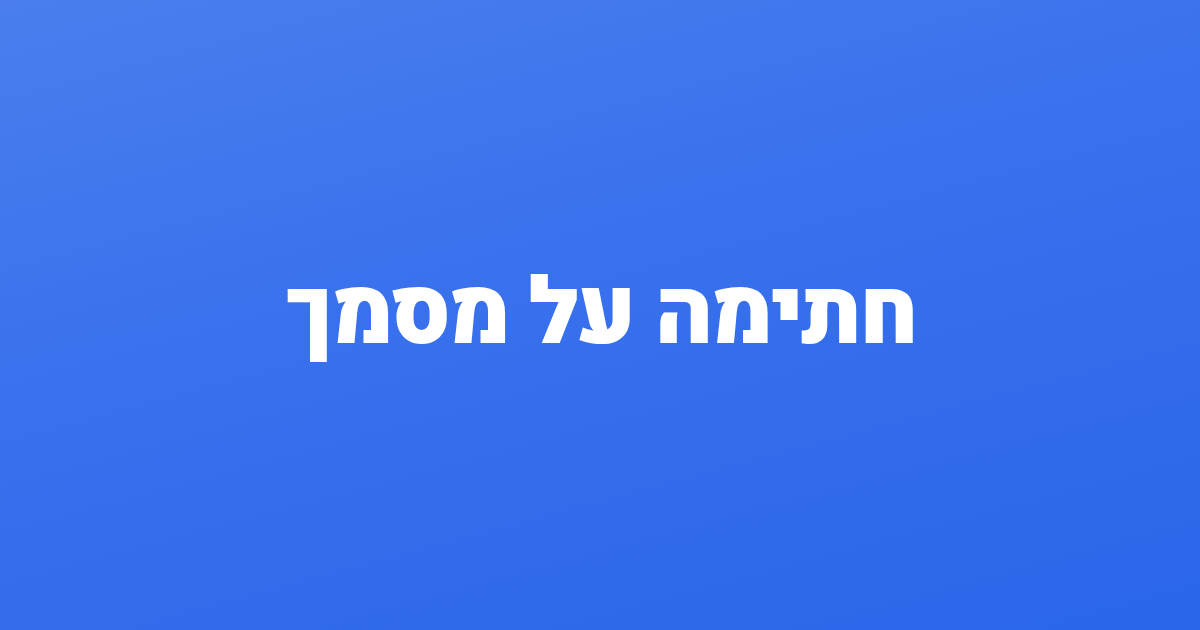
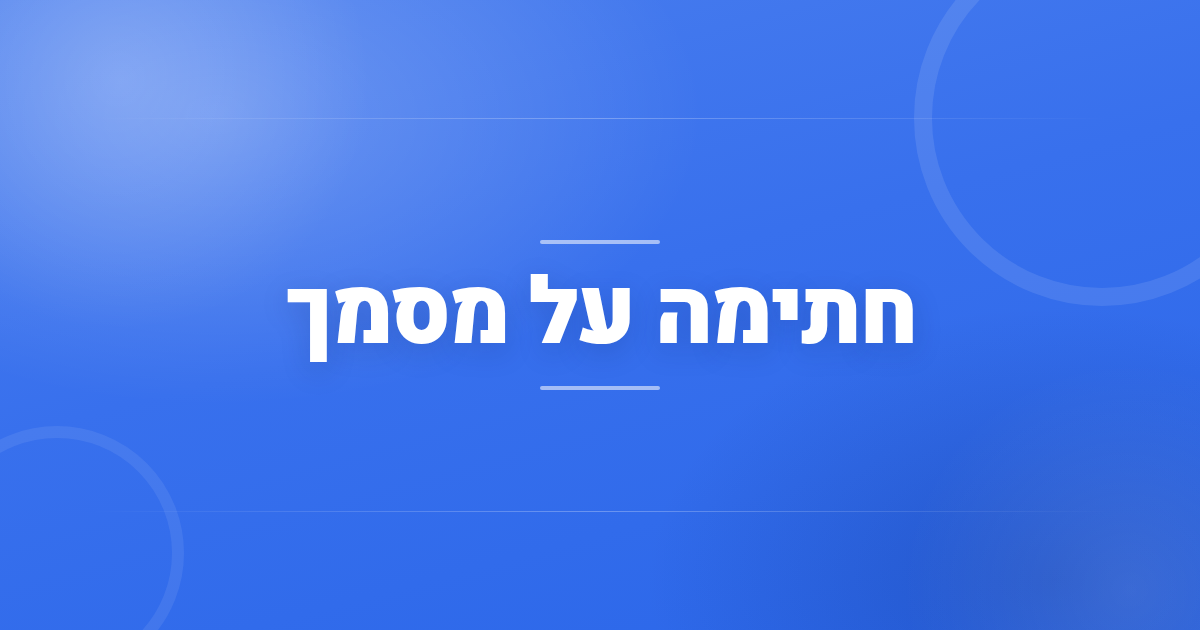
Add a light design on the blue WhatsApp signature card.
Keep the sidebar blue and white title, and add a soft glow, rings, and thin lines so the preview is not a flat rectangle.

diff --git a/_test-gi-sign.js b/_test-gi-sign.js
@@ -140,7 +140,7 @@ assert(html.includes("gi-sign.css?v=20261002-sign-v6"), "עיצוב הכפתור
 assert(signJs.includes("function signShareText") && signJs.includes("מאת : ") && !signJs.includes("📄") && !signJs.includes("🖊") && !signJs.includes("מא. ") && signJs.includes("function agentFirstName") && signJs.includes("clipboard.writeText(signShareText(href))") && !signJs.includes("github.io"), "העתקת הלינק לוואטסאפ היא חתימה על מסמך ומאת : עם שם פרטי, בלי אייקון ובלי שם המערכת");
 const shareFn = signJs.slice(signJs.indexOf("function signShareText"), signJs.indexOf("function currentAgent"));
 assert(shareFn.includes('"חתימה על מסמך"') && shareFn.includes("מאת : ") && !shareFn.includes("GEMEL") && !shareFn.includes("📄"), "טקסט השיתוף בלי שם המערכת ובלי אייקון");
-assert(page.includes('property="og:title"') && page.includes("חתימה על מסמך") && page.includes("gi-sign-icon.png") && page.includes("summary_large_image") && fs.existsSync(path.join(ROOT, "gi-sign-icon.png")) && !page.includes("GEMEL"), "תצוגת הלינק היא כרטיס תכלת עם כיתוב לבן חתימה על מסמך");
+assert(page.includes('property="og:title"') && page.includes("חתימה על מסמך") && page.includes("gi-sign-icon.png?v=sign-og-v2") && page.includes("summary_large_image") && fs.existsSync(path.join(ROOT, "gi-sign-icon.png")) && !page.includes("GEMEL"), "תצוגת הלינק היא כרטיס תכלת עם כיתוב לבן חתימה על מסמך");
 assert(fs.readFileSync(path.join(ROOT, "gi-sign.css"), "utf8").includes("overflow-x:hidden") && fs.readFileSync(path.join(ROOT, "gi-sign.css"), "utf8").includes("text-overflow:ellipsis") && app.includes('cfFile__documentRowActions">${downloadBtn}'), "שורות המסמכים בתיק בשורה אחת בלי גלילה ימין-שמאל");
 assert(fs.readFileSync(path.join(ROOT, "gi-sign.css"), "utf8").includes("max-width:min(340px, calc(100vw - 24px)) !important") && signJs.includes("giSignSend__x"), "חלון הלינקים קטן והסגירה בצד");
 assert(app.includes('gi-cancel-forms.js?v=20260914-mc-followup-qfix-v2&giSign=2'), "חלון הטופס נטען מחדש");

diff --git a/s.html b/s.html
@@ -7,12 +7,12 @@
 <meta property="og:title" content="חתימה על מסמך"/>
 <meta property="og:description" content="חתימה על מסמך"/>
 <meta property="og:type" content="website"/>
-<meta property="og:image" content="./gi-sign-icon.png"/>
+<meta property="og:image" content="./gi-sign-icon.png?v=sign-og-v2"/>
 <meta property="og:image:width" content="1200"/>
 <meta property="og:image:height" content="630"/>
 <meta name="twitter:card" content="summary_large_image"/>
 <meta name="twitter:title" content="חתימה על מסמך"/>
-<link rel="icon" type="image/png" href="./gi-sign-icon.png"/>
+<link rel="icon" type="image/png" href="./gi-sign-icon.png?v=sign-og-v2"/>
 <link href="https://fonts.googleapis.com/css2?family=Heebo:wght@400;600;700;800&display=swap" rel="stylesheet"/>
 <link rel="stylesheet" href="https://cdn.jsdelivr.net/npm/pdfjs-dist@3.11.174/web/pdf_viewer.css"/>
 <style>
